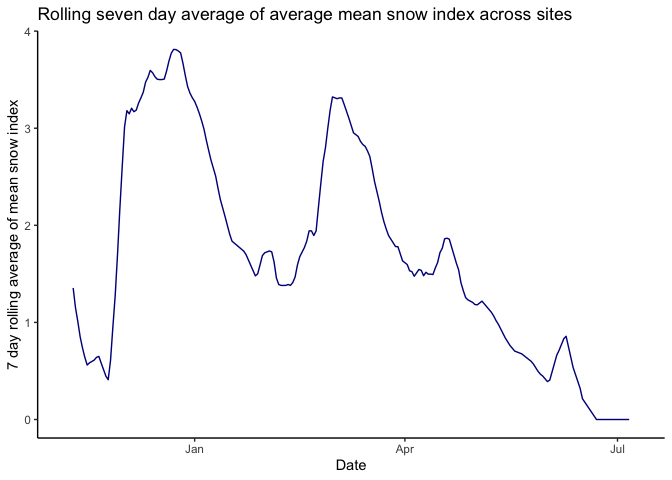
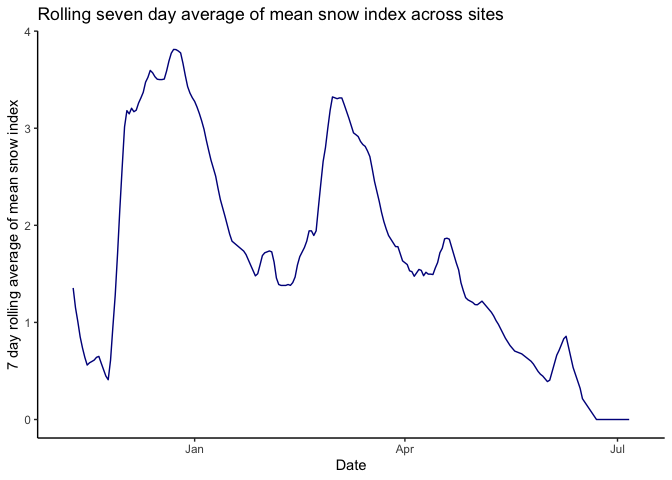
Make README toc, regenerate readme

Changed region(s): [[0.4062, 0.0, 0.8438, 0.0625]]

diff --git a/README.md b/README.md
@@ -13,6 +13,17 @@ coverage](https://codecov.io/gh/bcgov/bccamtrap/branch/main/graph/badge.svg)](ht
 
 Functions for QA and validation of Camera Trap data
 
+1.  [Installation](#installation)
+2.  [Example Usage](#example-usage)
+    1.  [Project and station metadata](#project-and-station-metadata)
+    2.  [Project Metadata: Field Form CSV
+        files](#project-metadata-field-form-csv-files)
+    3.  [Image data](#image-data)
+    4.  [Built-in plotting functions](#built-in-plotting-functions)
+    5.  [Sampling sessions](#sampling-sessions)
+    6.  [Analysis data](#analysis-data)
+    7.  [Write Data to SPI template](#write-data-to-spi-template)
+
 ## Installation
 
 You can install the development version of bccamtrap from
@@ -874,7 +885,7 @@ ggplot(elk_roll_avg, aes(x = date, y = roll_mean_mean_snow)) +
   geom_line(colour = "darkblue") + 
   theme_classic() + 
   labs(
-    title = "Rolling seven day average of average mean snow index across sites", 
+    title = "Rolling seven day average of mean snow index across sites", 
     x = "Date", 
     y = "7 day rolling average of mean snow index"
   )
